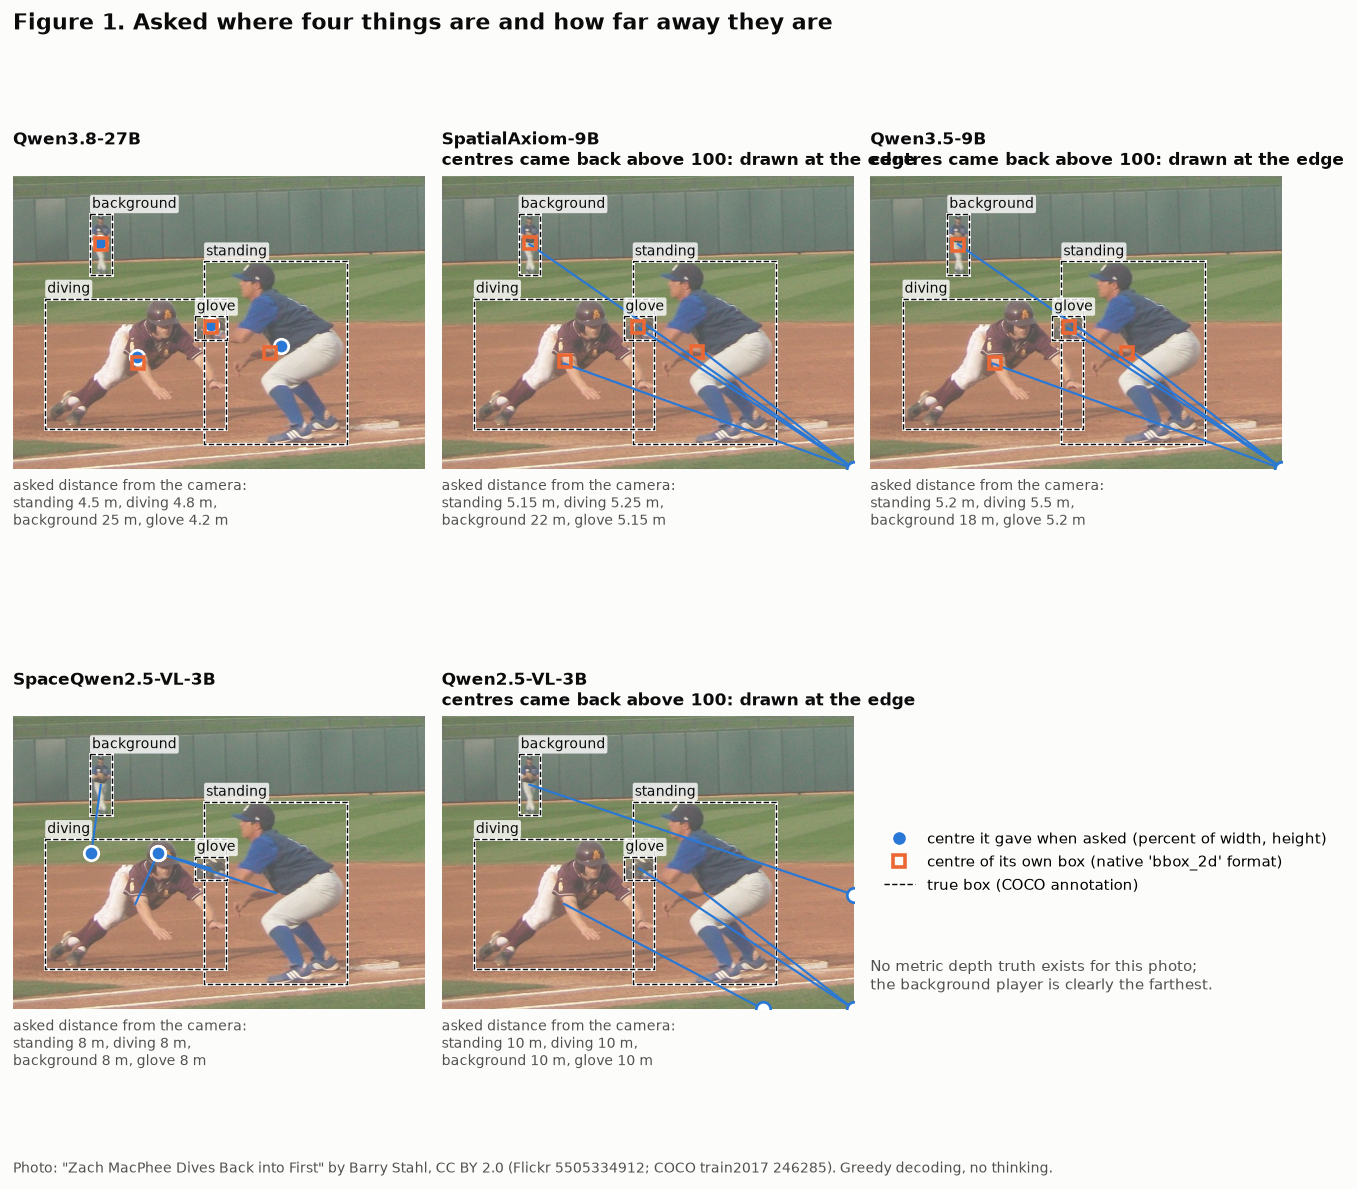
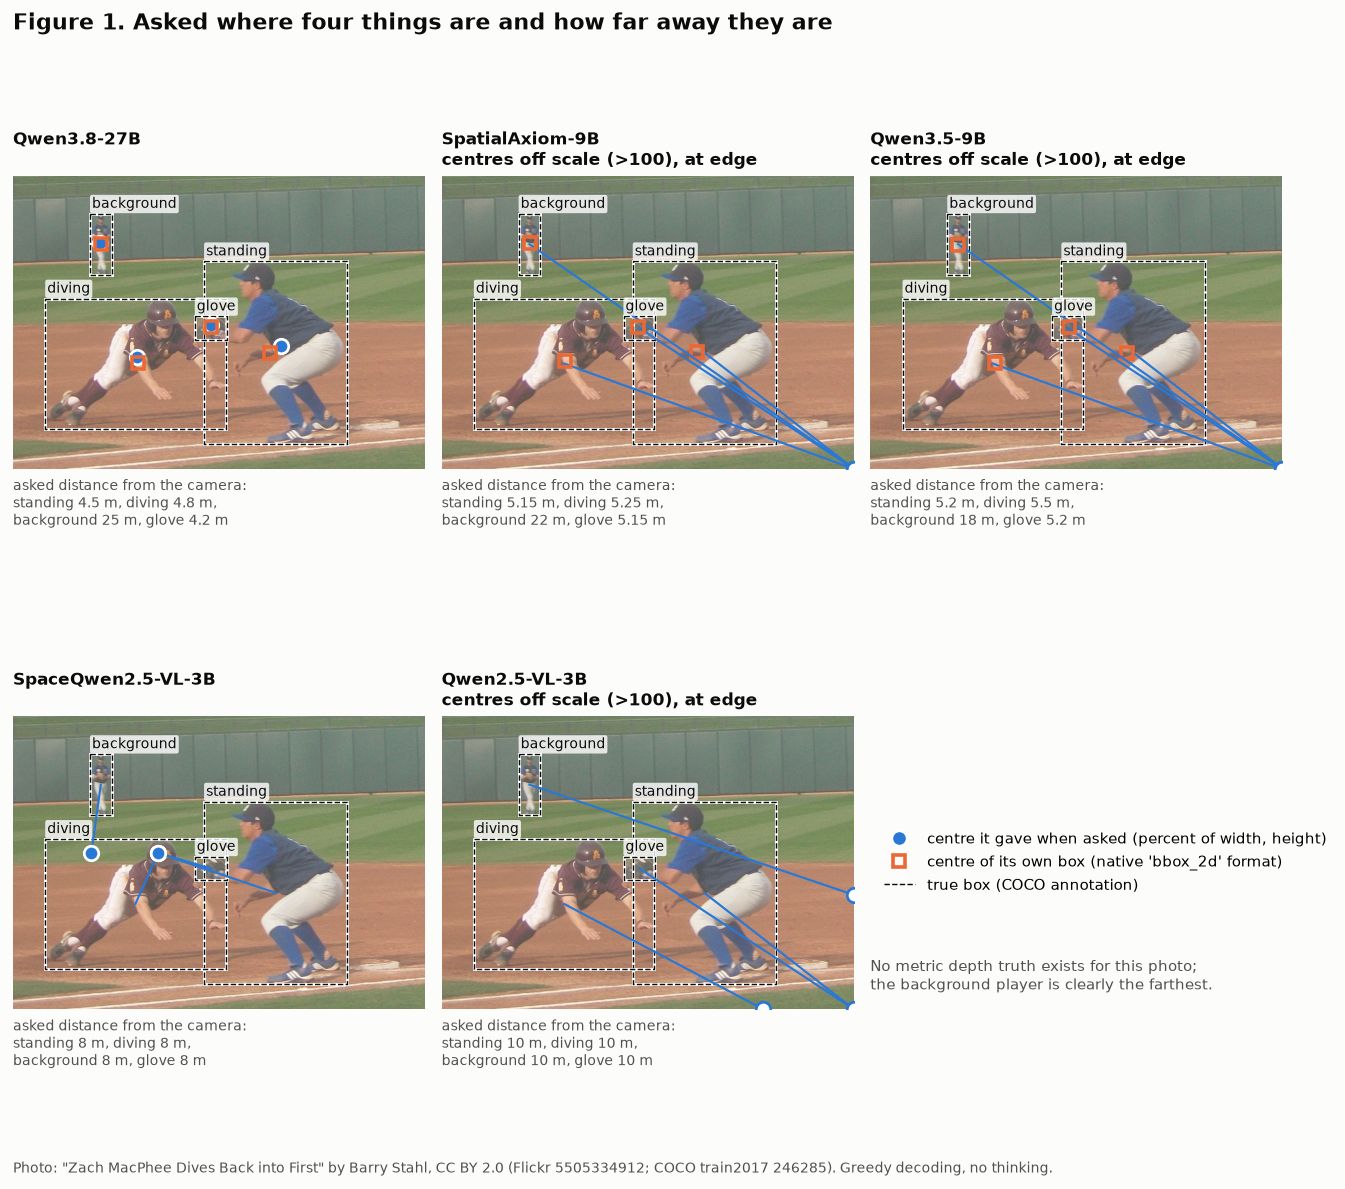
Figures 1 and 4: fix overlapping panel titles and clipped value labels (same data)
Claude-Session: https://claude.ai/code/session_01R8R5qMPz28uLU3q7Kvm8mo

diff --git a/src/make_figures.py b/src/make_figures.py
@@ -75,7 +75,7 @@ def figure1(plt, R, cache, out):
             lines.append(f"{short[o['name']]} {d:.3g} m" if d else f"{short[o['name']]}: none")
         ax.set_xlim(0, W); ax.set_ylim(H, 0)
         off = any(q.get('xy') and max(q['xy']) > 1 for q in parsed)
-        ax.set_title(model + ('\ncentres came back above 100: drawn at the edge' if off else '\n'), loc='left', fontsize=9.5)
+        ax.set_title(model + ('\ncentres off scale (>100), at edge' if off else '\n'), loc='left', fontsize=9.5)
         ax.text(0, -0.03, 'asked distance from the camera:\n' + ', '.join(lines[:2]) + ',\n' + ', '.join(lines[2:]),
                 transform=ax.transAxes, fontsize=8, color=INK2, va='top')
     for ax in axes[n:]:
@@ -205,7 +205,7 @@ def models_figure(plt, R, out, dataset='all'):
                ('ask', 'distance_test', 'Distance between two objects (abs-rel)', False),
                ('ground', 'xy_test', 'Position, native box centre (% diagonal)', False),
                ('yesno', 'pooled_test/all', 'Relations, yes/no (balanced acc.)', True), ('yesno', 'naming/pooled', 'Naming check (accuracy)', True)]
-    fig, axes = plt.subplots(2, 3, figsize=(14.0, 6.4), gridspec_kw={'wspace': 0.75, 'hspace': 0.55})
+    fig, axes = plt.subplots(2, 3, figsize=(15.5, 6.6), gridspec_kw={'wspace': 1.05, 'hspace': 0.55})
     for ax, (src, key, title, higher) in zip(axes.ravel(), metrics):
         vals = []
         for m in run:
@@ -219,6 +219,8 @@ def models_figure(plt, R, out, dataset='all'):
             ax.plot(s['ci'], [yy, yy], color=INK2, lw=1)
             ax.text(s['ci'][1], yy, f"  {s['value']:.2f}" if s['value'] < 10 else f"  {s['value']:.1f}", va='center', fontsize=7.5, color=INK2)
         ax.set_yticks(y); ax.set_yticklabels([SHORT[m] for m, _ in vals], fontsize=8)
+        if not higher and vals:                                     # room for the value labels past the longest bar
+            ax.set_xlim(0, max(s['ci'][1] for _, s in vals) * 1.22)
         if higher:
             ax.axvline(0.5, color=INK2, lw=0.8, ls=':')
             ax.set_xlim(0.4, 1.0)
